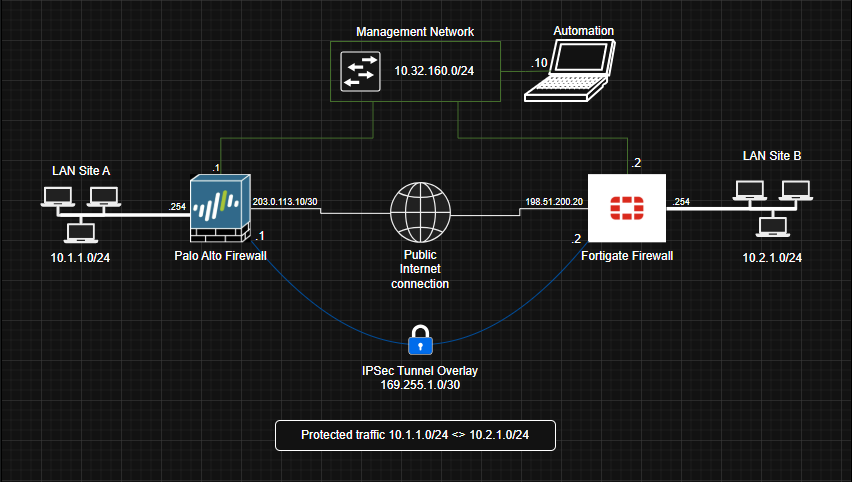
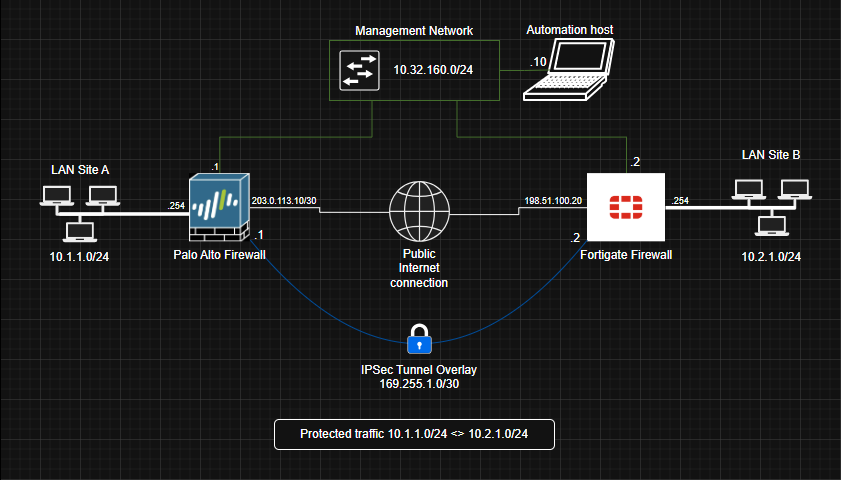
Atualizando documento e imagem HLD

diff --git a/parte 2/docs/automation-plan.md b/parte 2/docs/automation-plan.md
@@ -1,0 +1,81 @@
+# Plano de Automação de VPN IPSec entre FortiGate e Palo Alto
+
+## Resumo
+
+Seguindo para a parte 2 do desafio - esse documento descreve um plano para automatizar a configuração de uma VPN IPSec site-to-site entre os firewalls FortiGate e Palo Alto.
+
+O objetivo é definir os parâmetros necessários, ferramentas, passos lógicos da automação, considerações específicas de ambiente multi-vendor e estratégias de validação e alertas.
+
+A automação proposta considera o uso de Python com entrada de dados em JSON e módulos específicos para cada fabricante, permitindo que a mesma estrutura de dados gere configurações compatíveis com FortiGate e Palo Alto.
+
+## 
+
+
+
+
+## Cenário proposto
+
+O cenário proposto contempla uma VPN IPSec site-to-site entre dois sites:
+
+![High Level Design](hld-topology.png)
+
+
+
+### Informações gerais
+| **Item** | **Site A** | **Site B** |
+|---|---|---|
+| **Fabricante** | Palo Alto | Fortinet |
+| **Função** | Firewall | Firewall |
+| **Tipo de VPN** | IPSec Site-to-site | IPSec Site-to-site |
+| **Autenticação** | Pre-shared key | Pre-shared key |
+| **IKE Version** | IKEv2 | IKEv2 |
+
+
+### Endereçamento
+
+| Endereço | Palo Alto | Fortigate |
+|---|---:|---:|
+| IP WAN | `203.0.113.10` | `198.51.100.20` |
+| IP de gerenciamento | `10.32.160.1` | `10.32.160.2` |
+| Rede local | `10.1.1.0/24` | `10.2.1.0/24` |
+| Interface WAN | `TBD` | `TBD` |
+| Interface LAN/Trust | `TBD` | `TBD` |
+| Nome do túnel | `IPSEC-TU1` | `IPSEC-TU1` |
+
+
+```
+- Por se tratar de um ambiente de laboratório virtual não-produtivo, os IPs de WAN escolhidos são correspondentes a faixa TEST-NET da IANA usada para fins de documentação.
+
+- Os ranges de gerência e rede local são fictícios para teste do laboratório
+
+- Nome lógico do túnel IPSec foi o mesmo utilizado em ambos os firewalls para facilitar identificação operacional e troubleshooting.
+```
+
+### Parametros da VPN
+
+### Phase 1 - IKE
+
+| Parâmetro | Valor |
+|---|---|
+| IKE Version | IKEv2 |
+| Autenticação | Pre-shared Key |
+| Criptografia | AES-256 |
+| Integridade | SHA-256 |
+| Diffie-Hellman Group | Group 19 |
+| Lifetime | 28800 segundos |
+
+### Phase 2 - IPSec
+
+| Parâmetro | Valor |
+|---|---|
+| Criptografia | AES-256 |
+| Integridade | SHA-256 |
+| PFS | Habilitado |
+| PFS Group | Group 19 |
+| Lifetime | 3600 segundos |
+| Tráfego protegido | `10.1.1.0/24` <> `10.2.1.0/24` |
+
+
+### Rede de túnel
+
+